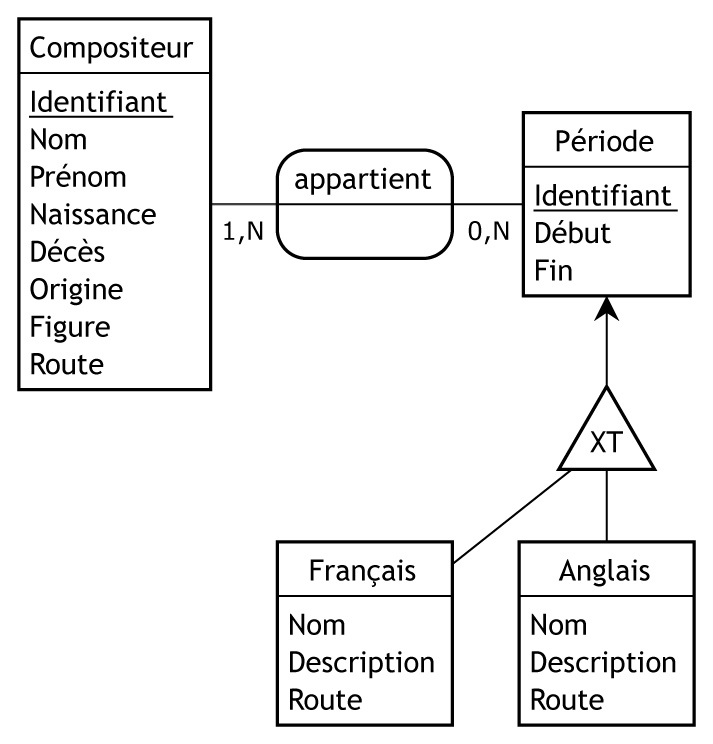
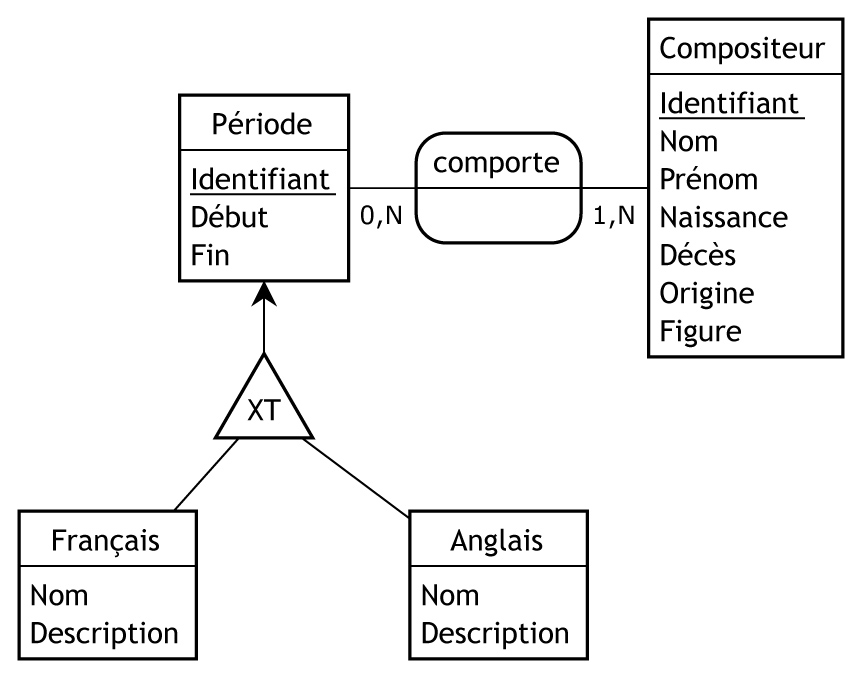
Améliore la description et les schémas du projet

diff --git a/README.md b/README.md
@@ -1,23 +1,38 @@
 # **PHP & MVC**
 
-Version | Objectif | Cadre | Démo
-------- | -------- | ----- | ----
-2.0 | Andragogie | Labo PHP | [PHP & MVC](https://demo.elodiebayet.com/php-mvc)
+Version | Objectif | Domaine | Cours | Démo
+------- | -------- | ------- | ----- | ----
+2.1 | Andragogie | Programmation | Laboratoire | [PHP & MVC](https://demo.elodiebayet.com/php-mvc)
 
+Reupload et correction du support 'PHP & MVC' daté d'octobre 2019.
 
 ---
 
 
 ## Présentation
 
-Ce projet est un support de cours qui sert d'exemple de développement en PHP à travers l'architecture **Model-View-Controller** et le paradigme **Orienté Objet**.
+Ce projet est une **ressource pédagogique** qui sert d'exemple de développement en PHP à travers l'architecture **Model-View-Controller** et le paradigme **Orienté Objet**.
+
+Ce support était fourni aux stagiaires ayant accompli le cours "Laboratoire PHP".
 
 
 ### Objectifs
 
-- Résoudre un système de routage en PHP
-- Respecter l'architecture Model-View-Controller et la Programmation Orientée Objets
-- Se préprarer à l'apprentissage d'un Framework professionnel comme Symfony
+- Résoudre un système de routage en PHP en deux versions linguistiques
+- Respecter l'architecture Model-View-Controller et l'abstraction Orientée Objets
+- Se préprarer à l'apprentissage d'un Framework professionnel comme [Symfony](https://symfony.com/doc)
+
+
+### Prérequis
+
+Cours 
+1. "Informatique général"
+1. "Algorithmique"
+1. "HTML/CSS"
+1. "Programmation PHP"
+1. "Modélisation de base de données"
+1. "Orienté Objet en PHP"
+1. "SQL / MySQL"
 
 
 ### Exploitation
@@ -28,36 +43,28 @@ Ce projet peut être utilisé dans un cadre d'apprentissage individuel et privé
 ---
 
 
-## Description
+## Analyse
 
 Le projet gère 2 versions linguistiques : le français et l'anglais. Les URIs et la base de données sont conçues en conséquence.
 
 
 ### Sitemap
 
-```sh
-"Sélection linguistique"
-├── "Accueil" || "Home"
-├── "Périodes" || "Périodes"
-├── "Compositeurs" || "Compositors"
-│   ├── "{nom}-{prenom}"
-├── "À propos" || "About"
-├── "Conception" || "Design"
-```
+![Architecture SEO](https://demo.elodiebayet.com/php-mvc/assets/img/architecture_seo.jpg)
 
 
 ### Base de données
 
 #### Schéma entités-associations
 
-<img src="https://demo.elodiebayet.com/php-mvc/assets/img/schema_entites-associations.jpg" width="356" height="372">
+<img src="https://demo.elodiebayet.com/php-mvc/assets/img/schema_entites-associations.jpg" width="431" height="339">
 
 #### Schéma relationel
 
 ![Schéma relationel](https://demo.elodiebayet.com/php-mvc/assets/img/schema_relationel.jpg)
 
 
-### Diagramme logiciel
+### Développement
 
 #### Classes
 
@@ -81,9 +88,9 @@ Clônez ce _repository_ dans un répertoire local sur votre machine.
 
 ### Prérequis
 
-- [Apache HTTP Server](https://httpd.apache.org/download.cgi)
-- [PHP](https://www.php.net/downloads.php)
-- [MySQL et Workbench](https://dev.mysql.com/downloads/)
+- [Apache HTTP Server ^2.4](https://httpd.apache.org/download.cgi)
+- [PHP ^8.4](https://www.php.net/downloads.php)
+- [MySQL ^8.0 et Workbench](https://dev.mysql.com/downloads/)
 
 
 ### Configuration
@@ -114,7 +121,7 @@ Fichier **host**
 
 Le dossier `_database/` contient les fichiers SQL nécessaires à l'implémentation de la base de données.
 
-- `1_schema.sql` définit la structure (DDL). Il doit être exécuter en premier.
+- `1_schema.sql` définit la structure (DDL). Il doit être exécuté en premier.
 - `2_data_periods.sql` implémente la table `period` et ses sous-entités languistiques (DML). C'est l'entité forte, donc il doit être exécuté en deuxième.
 - `3_data_compositor.sql` implémente la table `compositor` (DML). C'est l'entité faible, donc il doit être exécuté après le DML précédent.
 
